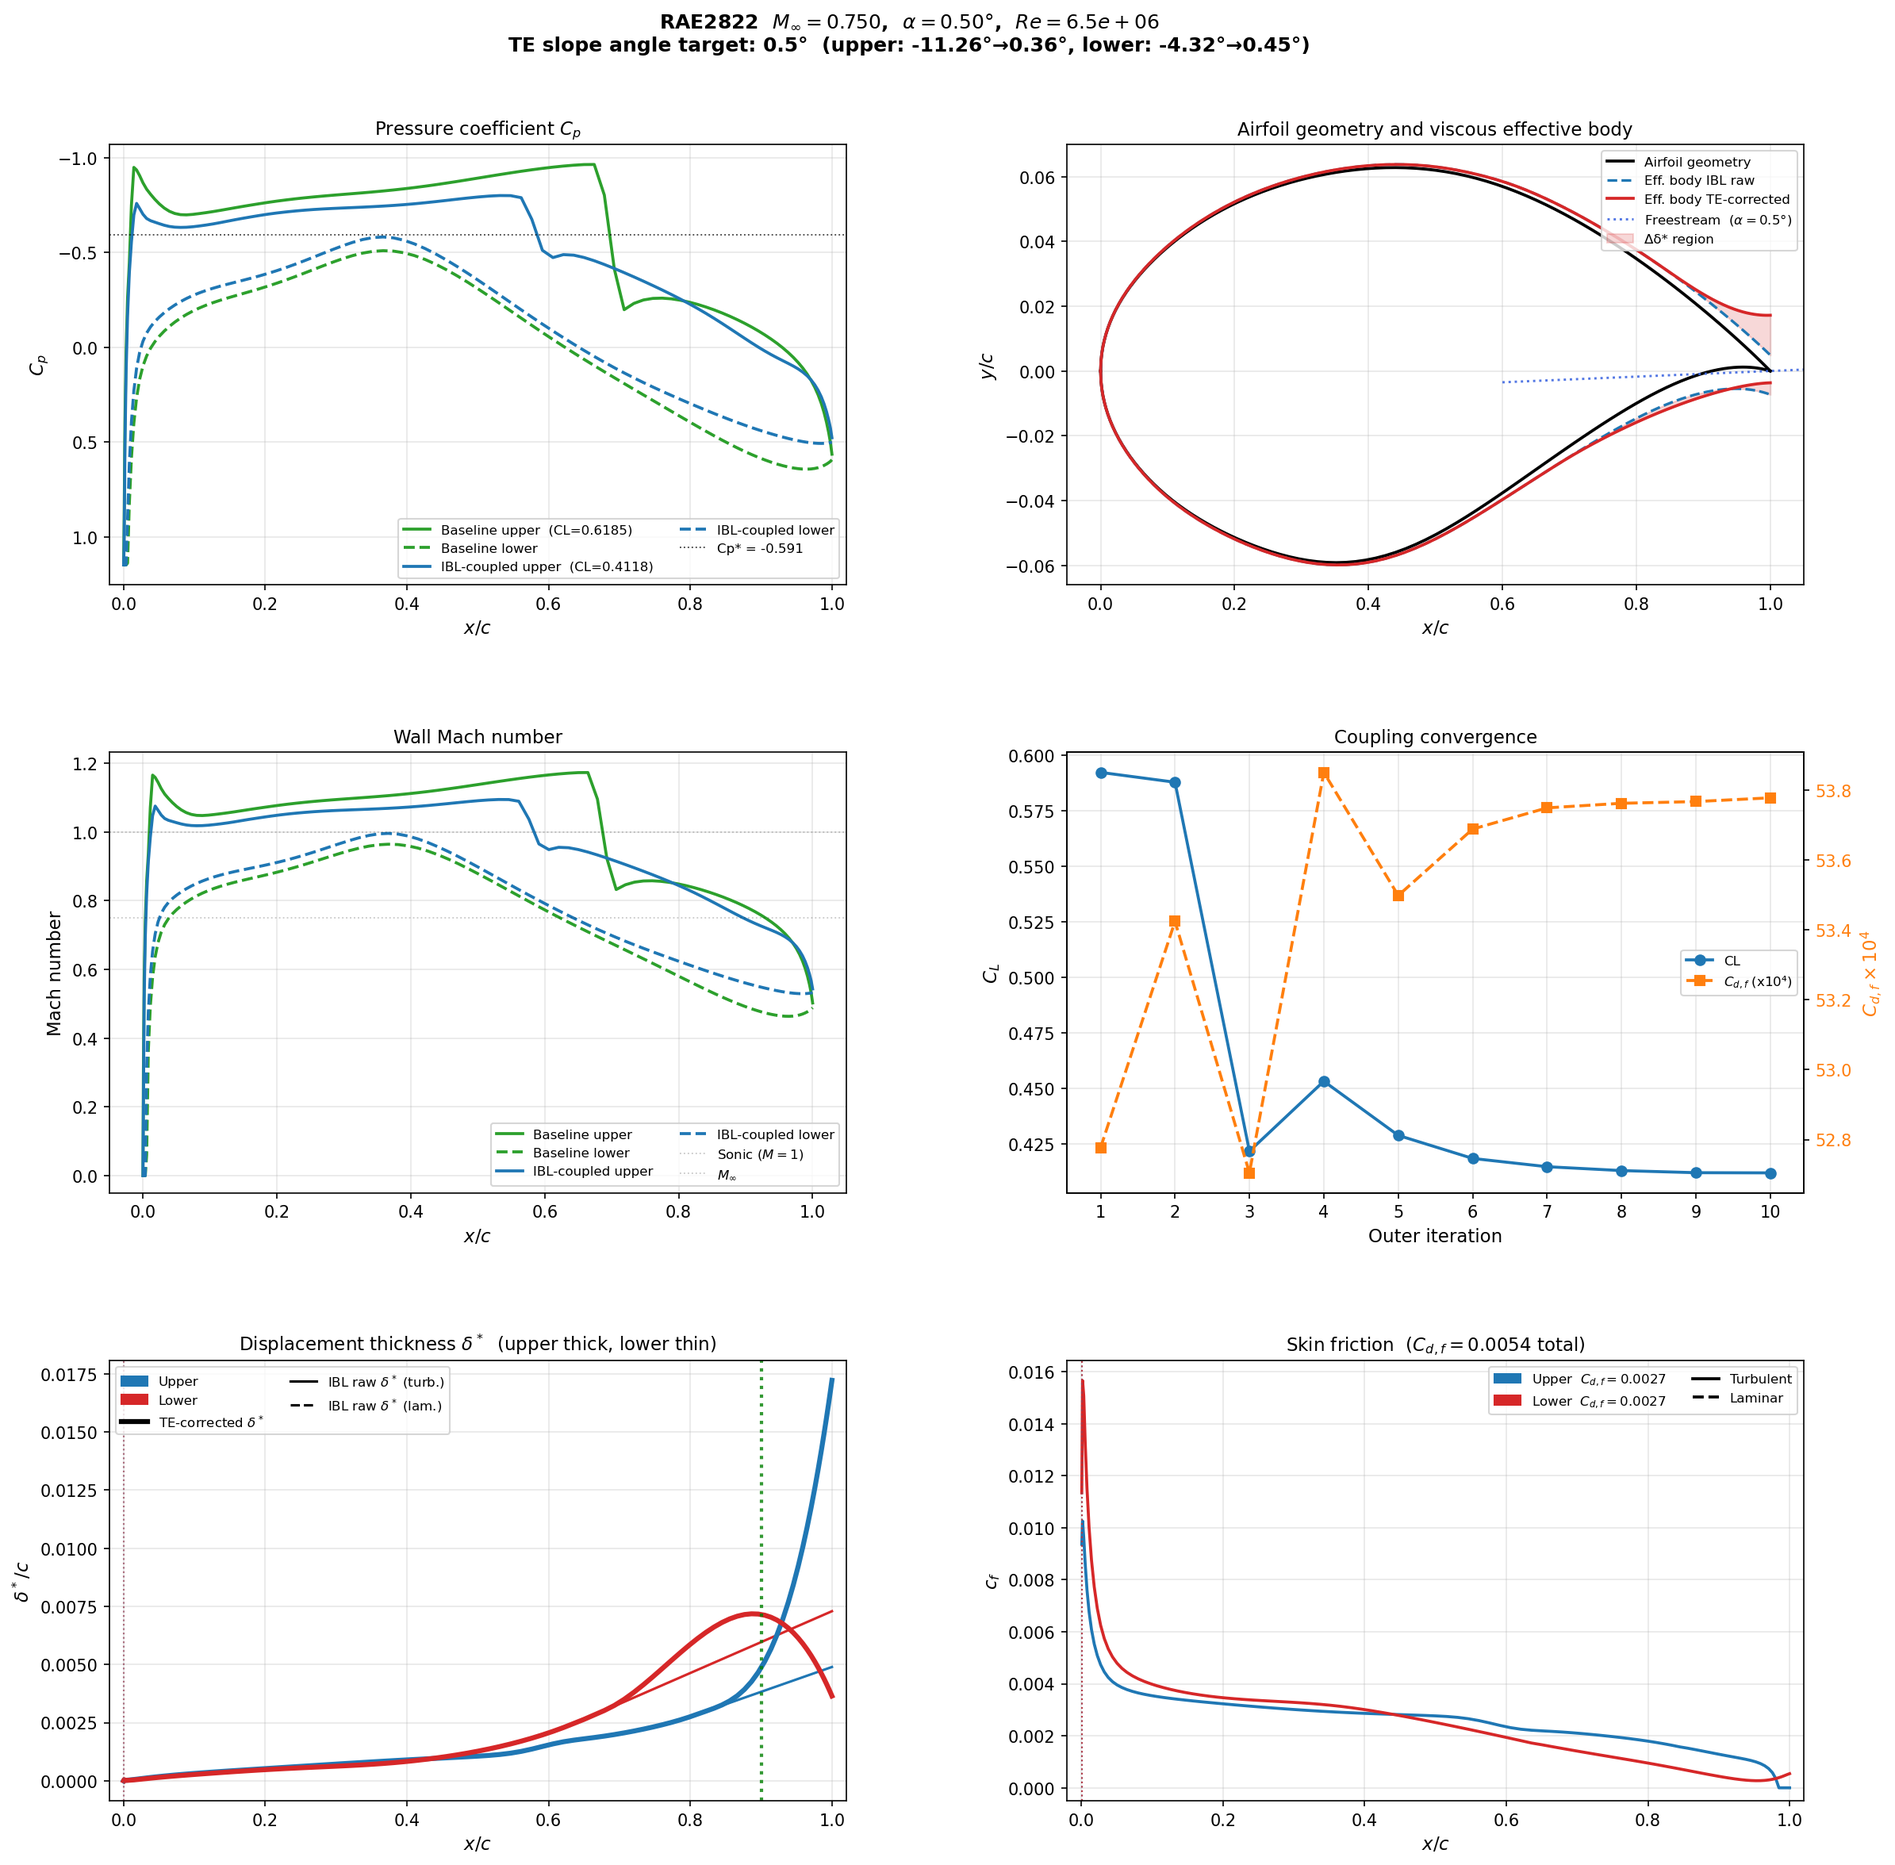
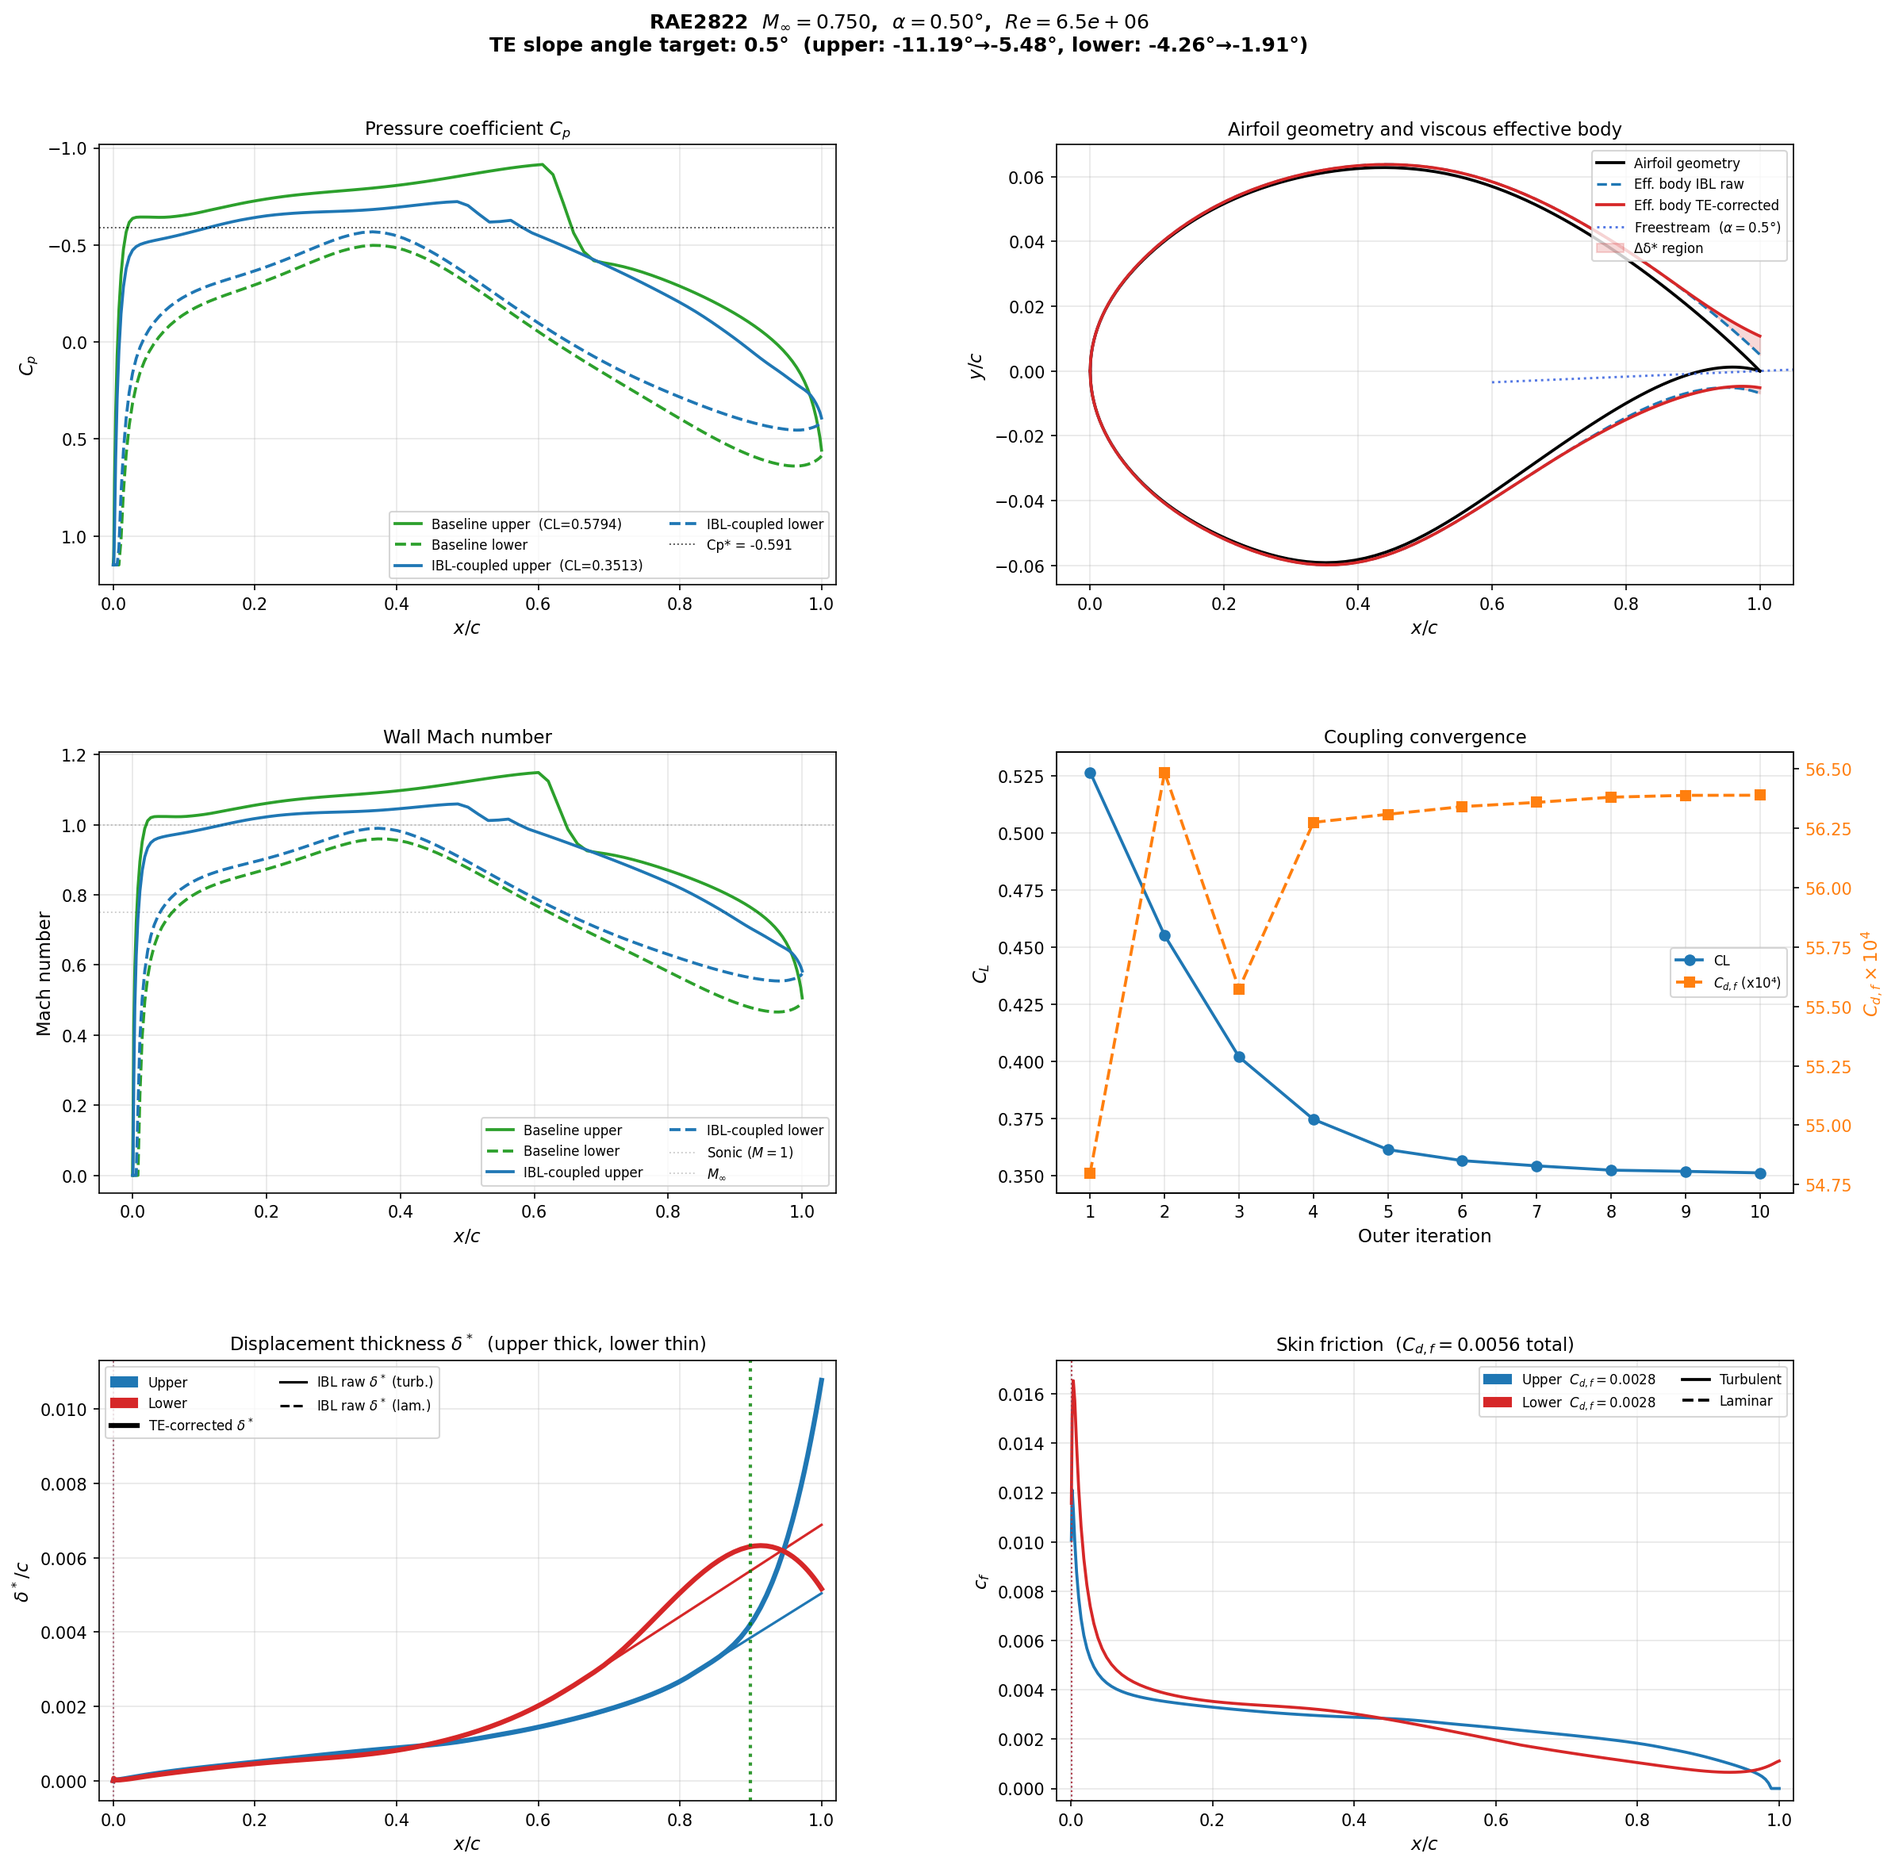
Update IBL + TEC details

diff --git a/pytsfoil/pytsfoil.py b/pytsfoil/pytsfoil.py
@@ -167,7 +167,7 @@ class PyTSFoil(object):
                         n_outer: int = 10,
                         x_tr_upper: float | None = None,
                         x_tr_lower: float | None = None,
-                        ibl_relax: float = 0.5,
+                        coupling_relax_final: float = 0.1,
                         mach_smooth_sigma: float = 2.0,
                         slope_smooth_sigma: float = 3.0,
                         delta_star_max: float = 0.05,
@@ -175,7 +175,7 @@ class PyTSFoil(object):
                         maxit_inner: int = 200,
                         i_outer_repair: int = 3,
                         use_te_correction: bool = False,
-                        d_angle_TE: float = 0.0,
+                        te_relax: float = 0.5,
                         x_blend_start: float = 0.8,
                         ) -> list:
         '''
@@ -215,8 +215,9 @@ class PyTSFoil(object):
         x_tr_lower : float or None
             Forced transition x/c on the lower surface.
             None → use Michel's criterion.
-        ibl_relax : float
-            Under-relaxation factor for the slope update (0 < relax ≤ 1).
+        coupling_relax_final : float
+            The relaxation factor gradually reduces to the specified value
+            through outer iterations to ensure convergence.
         mach_smooth_sigma : float
             Gaussian smoothing sigma (in mesh points) applied to the Mach
             distribution before IBL integration.  Spreads the TSD shock over
@@ -232,6 +233,17 @@ class PyTSFoil(object):
             loop.  The first (cold) solve always uses ``config['MAXIT']``.
             Smaller values (e.g. 50-200) are sufficient because P is already
             near the solution and the outer loop corrects the residual error.
+        i_outer_repair : int
+            The designated outer iteration index to start repairing δ* near the
+            trailing edge to prevent blow-up.
+        use_te_correction : bool
+            Whether to apply the trailing-edge correction to δ* after the repair.
+        te_relax : float
+            Relaxation factor for the trailing-edge correction (0-1).
+        x_blend_start : float
+            The default x/c location to start blending the TE correction
+            with the IBL solution. The actual blend start is the minimum of this
+            and the location of the δ* blow-up.
         Returns
         -------
         history : list[dict]
@@ -319,13 +331,13 @@ class PyTSFoil(object):
             if use_te_correction and k >= k_start_repair:
                 dstar_u = ibl.correction_dstar(
                     xx=xx_foil, yy=yu_foil, dstar=dstar_u,
-                    AoA=aoa, d_angle_TE=d_angle_TE,
+                    AoA=aoa, te_relax=te_relax,
                     x_blend_start=min(xx_foil[i_break_u], x_blend_start),
                     upper=True
                 )
                 dstar_l = ibl.correction_dstar(
                     xx=xx_foil, yy=yl_foil, dstar=dstar_l,
-                    AoA=aoa, d_angle_TE=d_angle_TE,
+                    AoA=aoa, te_relax=te_relax,
                     x_blend_start=min(xx_foil[i_break_l], x_blend_start),
                     upper=False
                 )
@@ -344,8 +356,16 @@ class PyTSFoil(object):
             slope_l = IBL.clip_and_smooth_slope(slope_l, slope_smooth_sigma, slope_correction_max)
 
             # Update FXU/FXL = base_slope ± dδ*/dx / delta  (with relaxation)
-            fxu_new = fxu_base + slope_u * ibl_relax / delta
-            fxl_new = fxl_base + slope_l * ibl_relax / delta
+            _r = k / n_outer
+            _coupling_relax = 1 + _r * (coupling_relax_final - 1)  # Linear reduction from initial relax to 0.01
+            if k > 0:
+                _fxu_last = fxu_new.copy()
+                _fxl_last = fxl_new.copy()
+            else:
+                _fxu_last = fxu_base.copy()
+                _fxl_last = fxl_base.copy()
+            fxu_new = _coupling_relax * (fxu_base + slope_u / delta) + (1-_coupling_relax) * _fxu_last
+            fxl_new = _coupling_relax * (fxl_base + slope_l / delta) + (1-_coupling_relax) * _fxl_last
 
             tsf.common_data.fxu[:nfoil] = fxu_new.astype(np.float32)
             tsf.common_data.fxl[:nfoil] = fxl_new.astype(np.float32)

diff --git a/pytsfoil/ibl.py b/pytsfoil/ibl.py
@@ -389,7 +389,7 @@ class IBL(object):
     @staticmethod
     def correction_dstar(xx: np.ndarray, yy: np.ndarray,
                 dstar: np.ndarray, AoA: float,
-                d_angle_TE: float = 0.0,
+                te_relax: float = 0.3,
                 x_blend_start: float = 0.9,
                 min_delta: float = -0.01,
                 upper: bool = True
@@ -398,7 +398,7 @@ class IBL(object):
         Trailing-edge correction for displacement thickness δ*.
 
         Adjusts δ* near the trailing edge so that the effective upper/lower surface
-        (y_eff = y ± δ*) has its slope at x = 1 equal to tan(AoA + d_angle_TE).
+        (y_eff = y ± δ*) has its slope at x = 1 equal to tan(AoA).
 
         Parameters
         ----------
@@ -410,12 +410,14 @@ class IBL(object):
             δ* from IBL.run()
         AoA: float
             angle of attack (degrees)
-        d_angle_TE: float
-            target TE deviation from free-stream (degrees).
-            0 → effective TE camber slope = tan(AoA) (free-stream-aligned).
-            Negative → effective TE below free-stream direction.
+        te_relax: float
+            Under-relaxation factor for the δ* update (0 < relax ≤ 1).
+            It reduces the magnitude of the TE-correction to the δ*,
+            providing a systematic bias/relaxation to the TE slope correction.
+            Empirically, values around 0.5 together with `NWEDGE=2` achieves good results.
         x_blend_start : float
-            x/c where the correction ramp begins (default 0.8).
+            x/c where the correction ramp begins (default 0.8), i.e.,
+            the location to start blending the TE correction with the IBL solution.
         upper : bool
             True for upper surface correction, False for lower surface.
 
@@ -445,10 +447,10 @@ class IBL(object):
         '''
         if upper:
             y_eff = yy + dstar
-            target_slope = np.tan(np.deg2rad(AoA + d_angle_TE))
+            target_slope = np.tan(np.deg2rad(AoA))
         else:
             y_eff = - yy + dstar
-            target_slope = - np.tan(np.deg2rad(AoA + d_angle_TE))
+            target_slope = - np.tan(np.deg2rad(AoA))
 
         mask = xx >= x_blend_start
         _x = xx[mask]
@@ -458,7 +460,7 @@ class IBL(object):
             return dstar
 
         delta = np.zeros_like(xx)
-        delta[mask] = _delta
+        delta[mask] = _delta * te_relax
         delta = np.clip(delta, min_delta, None)
 
         if upper:

diff --git a/example/rae2822_ibl/run_pytsfoil.py b/example/rae2822_ibl/run_pytsfoil.py
@@ -50,11 +50,10 @@ REYNLD = 6.5e6
 # IBL parameters
 
 N_OUTER        = 10
-IBL_RELAX      = 0.5
 MAXIT_INNER    = 200
 I_OUTER_REPAIR = 3
 USE_TE_CORRECTION = True
-D_ANGLE_TE     = 0.0
+TE_RELAX       = 0.5
 BLEND_START    = 0.9
 
 # Solver configuration
@@ -68,11 +67,11 @@ CFG = {
     'EPS':     0.5,
     'IPRTER':  500,
     'MAXIT':   9999,
-    'RIGF':    0.0,
+    'RIGF':    0.2,
     'SIMDEF':  3,
     'WCIRC':   1.0,
     'WE':      [1.8, 1.9, 1.95],
-    'NWDGE':   0,
+    'NWDGE':   2,
     'WCONST':  4.0,
     'IFLAP':   0,
     'DELFLP':  0.0,
@@ -134,7 +133,7 @@ def plot_results(r: dict, fname: str) -> None:
     fig.suptitle(
         f"RAE2822  $M_\\infty={r['emach']:.3f}$,  "
         f"$\\alpha={r['alpha']:.2f}°$,  $Re={r['reynld']:.1e}$\n"
-        f"TE slope angle target: {r['alpha'] + D_ANGLE_TE:.1f}°  "
+        f"TE slope angle target: {r['alpha']:.1f}°  "
         f"(upper: {angle_u_raw:.2f}°→{angle_u_corr:.2f}°, "
         f"lower: {angle_l_raw:.2f}°→{angle_l_corr:.2f}°)",
         fontsize=12, fontweight='bold',
@@ -341,20 +340,19 @@ if __name__ == '__main__':
     cpstar   = ts.data_summary.get('cpstar')
 
     #* IBL-coupled TSD
-    print(f"\nIBL-coupled TSD  (N_OUTER={N_OUTER}, relax={IBL_RELAX})")
+    print(f"\nIBL-coupled TSD  (N_OUTER={N_OUTER})")
     t0 = time.time()
 
     ibl = IBL(Re=REYNLD, M_inf=EMACH)
     history = ts.run_ibl_coupled(
         ibl=ibl,
         n_outer=N_OUTER,
-        ibl_relax=IBL_RELAX,
         x_tr_upper=0.0,
         x_tr_lower=0.0,
         maxit_inner=MAXIT_INNER,
         i_outer_repair=I_OUTER_REPAIR,
         use_te_correction=USE_TE_CORRECTION,
-        d_angle_TE=D_ANGLE_TE,
+        te_relax=TE_RELAX,
         x_blend_start=BLEND_START,
     )
     

diff --git a/pytsfoil/compile_f2py.py b/pytsfoil/compile_f2py.py
@@ -72,9 +72,11 @@ def generate_signature_file(files):
     '''
     print("\nGenerating f2py signature file...")
     files_str = " ".join(files)
-    
+
+    f2py = f"{sys.executable} -m numpy.f2py"
+
     # Generate .pyf file
-    cmd = f"f2py -m {MODULE_NAME} -h {MODULE_NAME}.pyf {files_str} --overwrite-signature"
+    cmd = f"{f2py} -m {MODULE_NAME} -h {MODULE_NAME}.pyf {files_str} --overwrite-signature"
     run_command(cmd)
     
     # Check if signature file was created
@@ -104,11 +106,13 @@ def compile_module(files) -> Path:
     print("\nCompiling Fortran code with f2py...")
     
     files_str = " ".join(files)
-    
+
+    f2py = f"{sys.executable} -m numpy.f2py"
+
     # Set compiler flags (similar to compile.sh but for f2py)
     fflags = "-O2 -Wall -g -fbacktrace"
-    
-    cmd = f"f2py --backend=meson --fcompiler=gfortran --f90flags='{fflags}' -c {MODULE_NAME}.pyf {files_str}"
+
+    cmd = f"{f2py} --backend=meson --fcompiler=gfortran --f90flags='{fflags}' -c {MODULE_NAME}.pyf {files_str}"
     result = run_command(cmd)
     
     # Check if the shared library was created

diff --git a/pytsfoil/__init__.py b/pytsfoil/__init__.py
@@ -38,7 +38,13 @@ def _check_and_compile_fortran():
                     sys.executable, str(compile_script)
                 ], check=True, capture_output=True, text=True)
                 print("✓ Fortran compilation completed successfully!")
-                
+
+                # Invalidate the FileFinder cache — without this, Python reuses the
+                # stale directory listing from the first (failed) import attempt and
+                # will not see the newly compiled .so even though it exists on disk.
+                import importlib
+                importlib.invalidate_caches()
+
                 # Try importing again
                 import tsfoil_fortran
                 return True

diff --git a/README.md b/README.md
@@ -117,8 +117,8 @@ cd       = pytsfoil.data_summary['cd']    # Wave drag (momentum integral method)
 from pytsfoil import PyTSFoil, IBL
 
 pytsfoil = PyTSFoil(airfoil_coordinates=airfoil_coordinates, work_dir='output_dir')
-pytsfoil.set_config(EMACH=0.75, ALPHA=0.5, REYNLD=6.5e6, MAXIT=9999,
-                    n_point_x=200, n_point_y=80, NWDGE=0, flag_print_info=True)
+pytsfoil.set_config(EMACH=0.75, ALPHA=0.5, REYNLD=6.5e6, MAXIT=9999, RIGF=0.2,
+                    n_point_x=200, n_point_y=80, NWDGE=2, flag_print_info=True)
 
 ibl = IBL(Re=6.5e6, M_inf=0.75)
 
@@ -127,15 +127,14 @@ pytsfoil.run()  # Run initial inviscid TSD (warm start for IBL coupling)
 
 history = pytsfoil.run_ibl_coupled(
     ibl=ibl,
-    n_outer=10,              # number of viscous-inviscid coupling cycles
-    x_tr_upper=0.0,          # forced transition x/c (None → Michel's criterion)
+    n_outer=10,             # number of viscous-inviscid coupling cycles
+    x_tr_upper=0.0,         # forced transition x/c (None → Michel's criterion)
     x_tr_lower=0.0,
-    ibl_relax=0.5,           # under-relaxation for wall-slope update
-    maxit_inner=200,         # TSD iterations per warm-start
-    i_outer_repair=3,        # iteration index to start trailing-edge repair
-    use_te_correction=True,  # apply TE δ* blending correction
-    d_angle_TE=0.0,          # target TE slope deviation from free-stream (degrees)
-    x_blend_start=0.9,       # x/c where the TE correction ramp begins
+    maxit_inner=200,        # TSD iterations per warm-start
+    i_outer_repair=3,       # iteration index to start trailing-edge repair
+    use_te_correction=True, # apply TE δ* blending correction
+    te_relax=0.5,           # relaxation factor for TE correction (0–1)
+    x_blend_start=0.9,      # x/c where the TE correction ramp begins
 )
 
 # Access coupled results
@@ -242,11 +241,6 @@ def run_analysis(params):
 with mp.Pool() as pool:
     results = pool.map(run_analysis, case_list)
 ```
-
-**IBL coupling requirements**:
-
-- Set `NWDGE=0` when using `run_ibl_coupled()` — the viscous wedge option is incompatible with the displacement-thickness wall-slope correction
-- `run_ibl_coupled()` performs the initial inviscid solve automatically; do not call `run()` beforehand
 
 ## Version History
 
